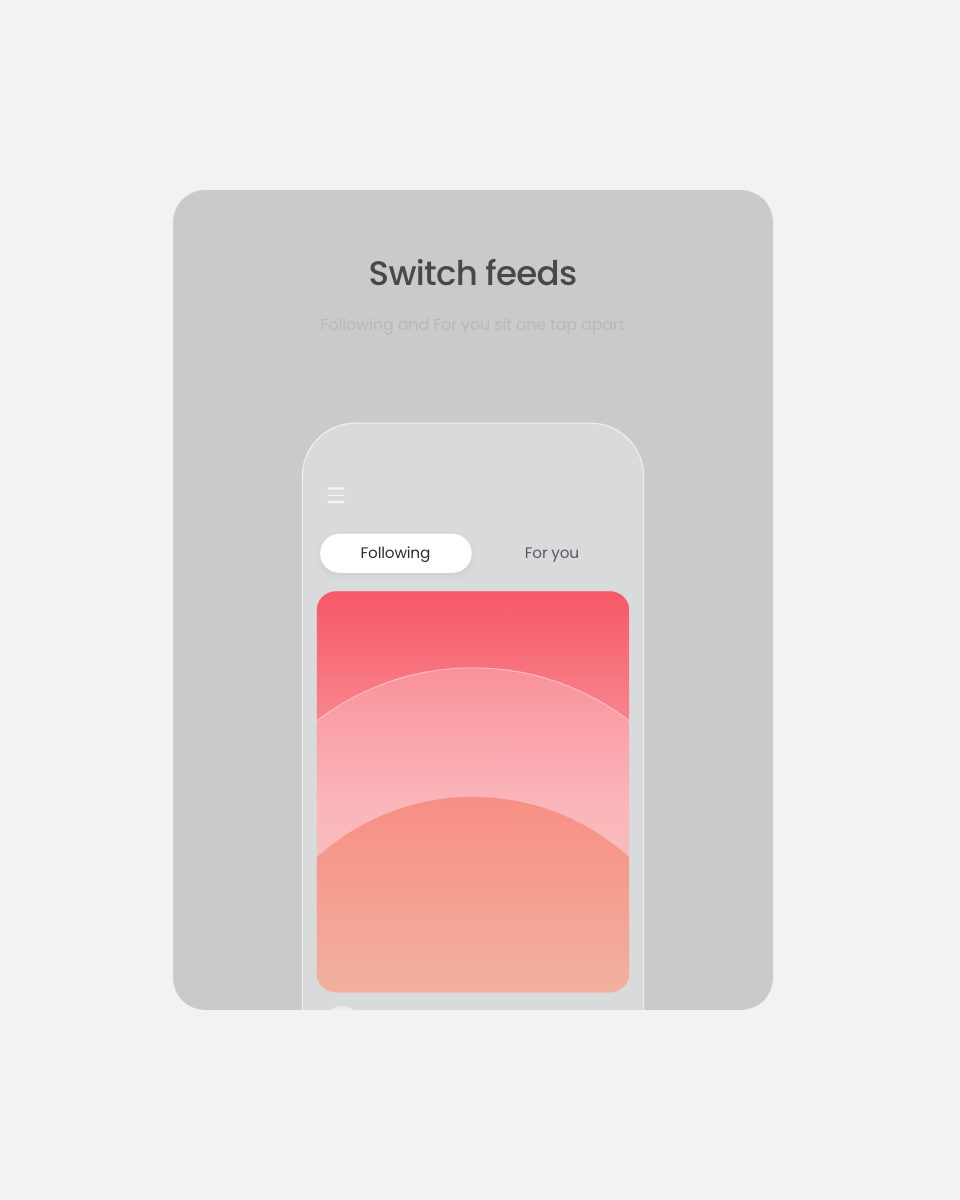
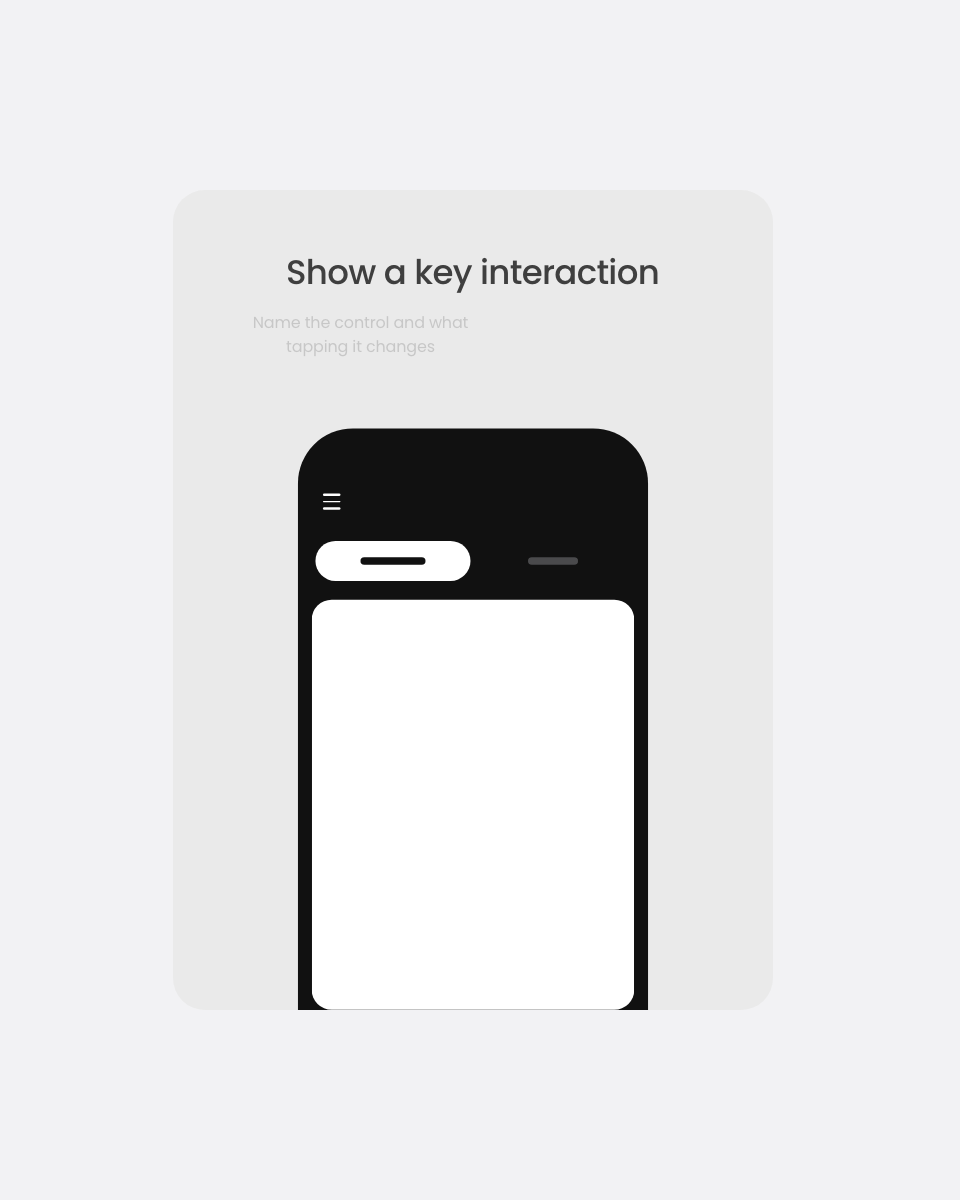
UI Walkthrough: dark black-and-white skeleton phone on #eaeaea, placeholder copy, Apple-demo style touch point [skip deploy]

diff --git a/components/showcase/ui-walkthrough/ui-walkthrough.tsx b/components/showcase/ui-walkthrough/ui-walkthrough.tsx
@@ -88,7 +88,6 @@ const OUTRO = 0.9;
 const CAMERA = 0.9;
 const TAP_AT = 1.2;
 const TAP_LENGTH = 0.45;
-const RIPPLE_LENGTH = 0.55;
 
 /** The Lumen film's camera curve: zero speed at both ends, an early peak, a long soft settle. */
 const cameraEase = cubicBezier(0.42, 0, 0.16, 1);
@@ -243,20 +242,17 @@ function useFit(hostRef: React.RefObject<HTMLDivElement | null>, layout: "auto" 
 /* The default screen: a skeleton feed                                        */
 /* ------------------------------------------------------------------------- */
 
-const SKELETON = "#ececee";
-const LIKED = "#f65866";
+/** The words beside the phone. */
+const INK = "#111111";
+/** Dark mode, black and white only: a black screen, white for what matters, dark grey for placeholder lines. */
+const SCREEN = "#111111";
+const CONTENT = "#ffffff";
+const SKELETON = "#2c2c2e";
 /** One post: a 328px card, its meta row and three lines, then a gap that hides the next card at rest. */
 const POST_H = 470;
 /** Phone-local y of the tabs and of the second post's action row, for the default script's camera. */
 const TABS_Y = 106;
 const ACTIONS_Y = 492;
-
-type Palette = { top: string; mid: string; bottom: string; arc: string };
-const PALETTES: Record<"following" | "forYou" | "next", Palette> = {
-  following: { top: "#f65866", mid: "#f9a0a6", bottom: "#efbca6", arc: "#f7877a" },
-  forYou: { top: "#8f7cf0", mid: "#c3b5f7", bottom: "#f3c9b9", arc: "#a993f2" },
-  next: { top: "#ff9a52", mid: "#ffc58f", bottom: "#f8dcc0", arc: "#ffae6b" },
-};
 
 const ICONS = {
   star: "M12 2.5l2.9 5.9 6.5.9-4.7 4.6 1.1 6.5L12 17.3l-5.8 3.1 1.1-6.5L2.6 9.3l6.5-.9z",
@@ -273,45 +269,20 @@ function Icon({ path, fill, style }: { path: string; fill: string; style?: React
   );
 }
 
-function Card({ palette, style }: { palette: Palette; style?: React.CSSProperties }) {
+/** A post's picture, as a flat placeholder block. */
+function Card({ fill, style }: { fill: string; style?: React.CSSProperties }) {
   return (
     <div
       style={{
         position: "absolute",
         inset: 0,
         borderRadius: 16,
-        overflow: "hidden",
-        background: `linear-gradient(180deg, ${palette.top} 0%, ${palette.mid} 52%, ${palette.bottom} 100%)`,
+        background: fill,
+        // A black card on the black screen keeps a hairline edge.
+        boxShadow: fill === SCREEN ? `inset 0 0 0 1.5px ${CONTENT}` : undefined,
         ...style,
       }}
-    >
-      <div
-        style={{
-          position: "absolute",
-          left: "50%",
-          top: 62,
-          width: 420,
-          height: 420,
-          marginLeft: -210,
-          borderRadius: "50%",
-          background: "rgba(255,255,255,.22)",
-          border: "1px solid rgba(255,255,255,.35)",
-        }}
-      />
-      <div
-        style={{
-          position: "absolute",
-          left: "50%",
-          top: 168,
-          width: 380,
-          height: 380,
-          marginLeft: -190,
-          borderRadius: "50%",
-          background: `linear-gradient(180deg, ${palette.arc} 0%, ${palette.bottom} 60%)`,
-          opacity: 0.85,
-        }}
-      />
-    </div>
+    />
   );
 }
 
@@ -349,7 +320,7 @@ function Post({
         <Icon path={ICONS.comment} fill={SKELETON} style={{ position: "absolute", left: 185, top: 346 }} />
         <div data-walk={heart ? "like" : undefined} style={{ position: "absolute", left: 216, top: 346, width: 18, height: 18, transform: `scale(${heartScale.toFixed(3)})` }}>
           <Icon path={ICONS.heart} fill={SKELETON} style={{ position: "absolute", inset: 0 }} />
-          <Icon path={ICONS.heart} fill={LIKED} style={{ position: "absolute", inset: 0, opacity: liked }} />
+          <Icon path={ICONS.heart} fill={CONTENT} style={{ position: "absolute", inset: 0, opacity: liked }} />
         </div>
         <div style={bar(5, 385, 50)} />
         <div style={bar(60, 385, 50)} />
@@ -370,7 +341,7 @@ function SkeletonFeed({ ctx, fade }: { ctx: WalkthroughContext; fade: boolean })
       {/* Menu */}
       <div style={{ position: "absolute", left: 20, top: 52, display: "grid", gap: 4, ...ctx.enter(0) }}>
         {[0, 1, 2].map((i) => (
-          <span key={i} style={{ display: "block", width: 14, height: 1.5, borderRadius: 1, background: "#f4f4f5" }} />
+          <span key={i} style={{ display: "block", width: 14, height: 1.5, borderRadius: 1, background: CONTENT }} />
         ))}
       </div>
       {/* Following / For you */}
@@ -383,16 +354,16 @@ function SkeletonFeed({ ctx, fade }: { ctx: WalkthroughContext; fade: boolean })
             width: 124,
             height: 32,
             borderRadius: 16,
-            background: "#ffffff",
-            boxShadow: "0 2px 6px rgba(0,0,0,.06)",
+            background: CONTENT,
             transform: `translateX(${(forYou * 128).toFixed(2)}px)`,
           }}
         />
-        {(["Following", "For you"] as const).map((label, i) => {
+        {/* Placeholder bars stand in for the two tab names. */}
+        {([52, 40] as const).map((width, i) => {
           const active = i === 0 ? 1 - forYou : forYou;
           return (
             <div
-              key={label}
+              key={i}
               data-walk={i === 1 ? "for-you" : undefined}
               style={{
                 position: "absolute",
@@ -402,12 +373,10 @@ function SkeletonFeed({ ctx, fade }: { ctx: WalkthroughContext; fade: boolean })
                 height: 32,
                 display: "grid",
                 placeItems: "center",
-                fontSize: 12.5,
-                color: active > 0.5 ? "#2c2c2e" : "#5a5a5e",
                 transform: i === 1 ? `scale(${(1 - 0.05 * forYouPress).toFixed(3)})` : undefined,
               }}
             >
-              {label}
+              <span style={{ width, height: 6, borderRadius: 3, background: active > 0.5 ? SCREEN : "#4a4a4c" }} />
             </div>
           );
         })}
@@ -420,12 +389,12 @@ function SkeletonFeed({ ctx, fade }: { ctx: WalkthroughContext; fade: boolean })
             ctx={ctx}
             card={
               <>
-                <Card palette={PALETTES.following} />
-                <Card palette={PALETTES.forYou} style={{ opacity: forYou }} />
+                <Card fill={CONTENT} />
+                <Card fill={SCREEN} style={{ opacity: forYou }} />
               </>
             }
           />
-          <Post top={15 + POST_H} ctx={ctx} card={<Card palette={PALETTES.next} />} heart={{ liked: ctx.tapped(3), press: ctx.press("like") }} />
+          <Post top={15 + POST_H} ctx={ctx} card={<Card fill={CONTENT} />} heart={{ liked: ctx.tapped(3), press: ctx.press("like") }} />
         </div>
       </div>
     </>
@@ -434,12 +403,46 @@ function SkeletonFeed({ ctx, fade }: { ctx: WalkthroughContext; fade: boolean })
 
 /** The default script, written for the skeleton feed. Copy it as a starting point for your own. */
 export const defaultWalkthroughSteps: WalkthroughStep[] = [
-  { title: "A calmer feed", caption: "Everything you follow in one quiet column", duration: 3 },
-  { title: "Switch feeds", caption: "Following and For you sit one tap apart", duration: 3.4, focus: { y: TABS_Y, zoom: 1.6 }, tap: "for-you" },
-  { title: "Scroll at your pace", caption: "Each post gets the whole screen", duration: 3 },
-  { title: "Save what you love", caption: "One tap keeps it for later", duration: 3.4, focus: { y: ACTIONS_Y, zoom: 1.6 }, tap: "like" },
-  { title: "Ready when you are", caption: "Your feed waits right where you left it", duration: 2.2 },
+  { title: "Introduce your app", caption: "One line on what it does and who it is for", duration: 3 },
+  { title: "Show a key interaction", caption: "Name the control and what tapping it changes", duration: 3.4, focus: { y: TABS_Y, zoom: 1.6 }, tap: "for-you" },
+  { title: "Walk through a flow", caption: "Say what happens as the screen moves on", duration: 3 },
+  { title: "Highlight a detail", caption: "Point out the small touch you are proud of", duration: 3.4, focus: { y: ACTIONS_Y, zoom: 1.6 }, tap: "like" },
+  { title: "Close with the outcome", caption: "Sum up what people get from it", duration: 2.2 },
 ];
+
+/** Seconds a touch is on screen before and after its press. */
+const TOUCH_LEAD = 0.6;
+const TOUCH_TAIL = 0.6;
+const TOUCH_SIZE = 34;
+
+/** A touch like the ones in Apple's product demos: a soft, finger-sized grey dot glides in and
+ *  settles, squeezes as it presses, then fades away. No ring, no burst. `t` is seconds from the
+ *  press (negative while it arrives). Grey reads on both the black screen and white controls. */
+function TouchPoint({ at, t }: { at: { x: number; y: number }; t: number }) {
+  const arrive = outEase(clamp01((t + 0.55) / 0.38));
+  const leave = fadeEase(clamp01((t - 0.24) / 0.3));
+  const press = sample([[-0.1, 0], [0, 1], [0.18, 0]], t, fadeEase);
+  const scale = (1.14 - 0.14 * arrive) * (1 - 0.16 * press);
+  return (
+    <span
+      aria-hidden="true"
+      style={{
+        position: "absolute",
+        width: TOUCH_SIZE,
+        height: TOUCH_SIZE,
+        borderRadius: "50%",
+        pointerEvents: "none",
+        // It glides in from just below and right, the way a thumb comes in.
+        left: at.x + (1 - arrive) * 14,
+        top: at.y + (1 - arrive) * 24,
+        background: "rgba(150,150,156,.55)",
+        boxShadow: "inset 0 0 0 1px rgba(255,255,255,.7), 0 3px 12px rgba(0,0,0,.35)",
+        transform: `translate(-50%, -50%) scale(${scale.toFixed(3)})`,
+        opacity: arrive * (1 - leave),
+      }}
+    />
+  );
+}
 
 /* ------------------------------------------------------------------------- */
 /* The stage                                                                  */
@@ -454,7 +457,7 @@ export function UIWalkthrough({ steps = defaultWalkthroughSteps, children, fade 
   const ctx = makeContext(steps, timeline, t, reduced);
   const current = steps[ctx.step];
 
-  // Where the tapped control sits on the phone canvas, for the ripple. Measured per step;
+  // Where the tapped control sits on the phone canvas, for the touch. Measured per step;
   // dividing by the rendered width undoes both the fit scale and the camera zoom.
   const [rippleAt, setRippleAt] = React.useState<{ x: number; y: number } | null>(null);
   React.useLayoutEffect(() => {
@@ -482,23 +485,24 @@ export function UIWalkthrough({ steps = defaultWalkthroughSteps, children, fade 
     return { opacity: Math.min(p, wordsOut), transform: reduced ? undefined : `translateY(${((1 - p) * 14).toFixed(2)}px)` };
   };
 
-  const rippleT = current?.tap ? ctx.time - (current.tapAt ?? TAP_AT) : -1;
-  const ripple = !reduced && rippleAt && rippleT >= 0 && rippleT <= RIPPLE_LENGTH ? rippleT / RIPPLE_LENGTH : null;
+  // Seconds from the press, while the touch is on screen (it arrives just before and leaves just after).
+  const touchT = current?.tap ? ctx.time - (current.tapAt ?? TAP_AT) : -Infinity;
+  const touch = !reduced && touchT >= -TOUCH_LEAD && touchT <= TOUCH_TAIL ? touchT : null;
 
   return (
     <div ref={hostRef} className={cn("relative flex h-full min-h-[320px] w-full items-center justify-center overflow-hidden", className)}>
       <div ref={fitRef} style={{ width: stage.w, height: stage.h, flex: "none", transformOrigin: "center" }}>
         <div
-          style={{ position: "relative", width: stage.w, height: stage.h, borderRadius: 32, overflow: "hidden", background: "#cacacc", fontFamily: FONT }}
+          style={{ position: "relative", width: stage.w, height: stage.h, borderRadius: 32, overflow: "hidden", background: "#eaeaea", fontFamily: FONT }}
         >
           <div style={{ position: "absolute", inset: 0, opacity: outro }}>
             {/* Copy */}
             <div style={{ position: "absolute", ...stage.copy }}>
               {current ? (
                 <div key={ctx.step}>
-                  <div style={{ fontSize: 34, lineHeight: 1.15, fontWeight: 500, letterSpacing: "-0.02em", color: "#1d1d1f", ...words(0) }}>{current.title}</div>
+                  <div style={{ fontSize: 34, lineHeight: 1.15, fontWeight: 500, letterSpacing: "-0.02em", color: INK, ...words(0) }}>{current.title}</div>
                   {current.caption ? (
-                    <div style={{ marginTop: 12, fontSize: 16, lineHeight: 1.5, color: "#5f5f64", ...words(0.1) }}>{current.caption}</div>
+                    <div style={{ marginTop: 12, maxWidth: 280, fontSize: 16, lineHeight: 1.5, color: "#6b6b6b", ...words(0.1) }}>{current.caption}</div>
                   ) : null}
                 </div>
               ) : null}
@@ -533,29 +537,11 @@ export function UIWalkthrough({ steps = defaultWalkthroughSteps, children, fade 
                     inset: 0,
                     borderRadius: 44,
                     overflow: "hidden",
-                    background: "#d9dadc",
-                    border: "1px solid rgba(255,255,255,.55)",
+                    background: SCREEN,
                   }}
                 >
                   {children ? children(ctx) : <SkeletonFeed ctx={ctx} fade={fade} />}
-                  {ripple !== null && rippleAt ? (
-                    <span
-                      aria-hidden="true"
-                      style={{
-                        position: "absolute",
-                        left: rippleAt.x,
-                        top: rippleAt.y,
-                        width: 44,
-                        height: 44,
-                        borderRadius: "50%",
-                        background: "rgba(255,255,255,.45)",
-                        border: "1.5px solid rgba(255,255,255,.8)",
-                        transform: `translate(-50%, -50%) scale(${(0.4 + outEase(ripple) * 1.2).toFixed(3)})`,
-                        opacity: 0.9 * (1 - ripple),
-                        pointerEvents: "none",
-                      }}
-                    />
-                  ) : null}
+                  {touch !== null && rippleAt ? <TouchPoint at={rippleAt} t={touch} /> : null}
                 </div>
               </div>
             </div>
